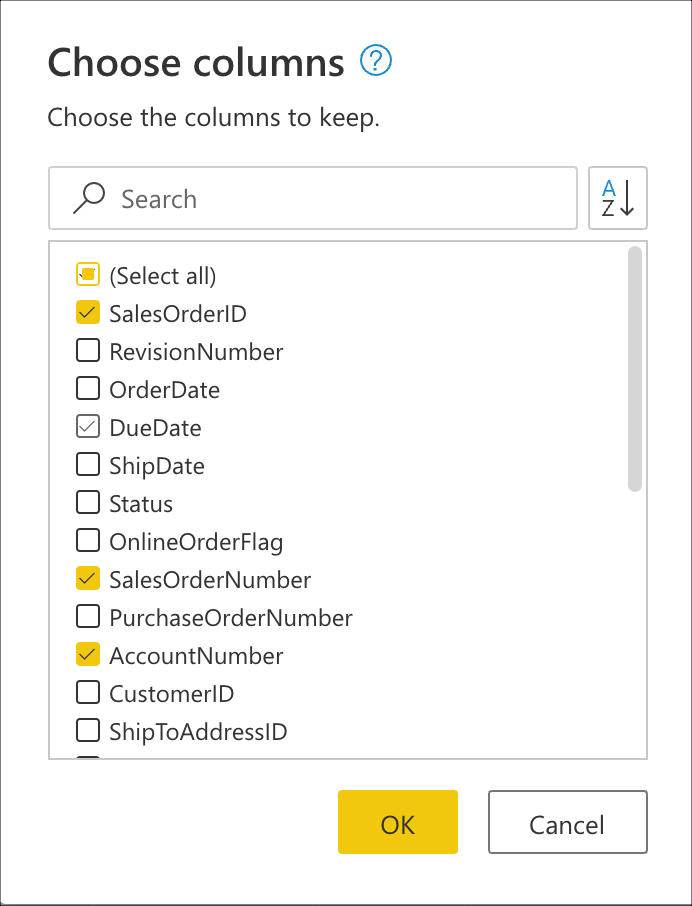
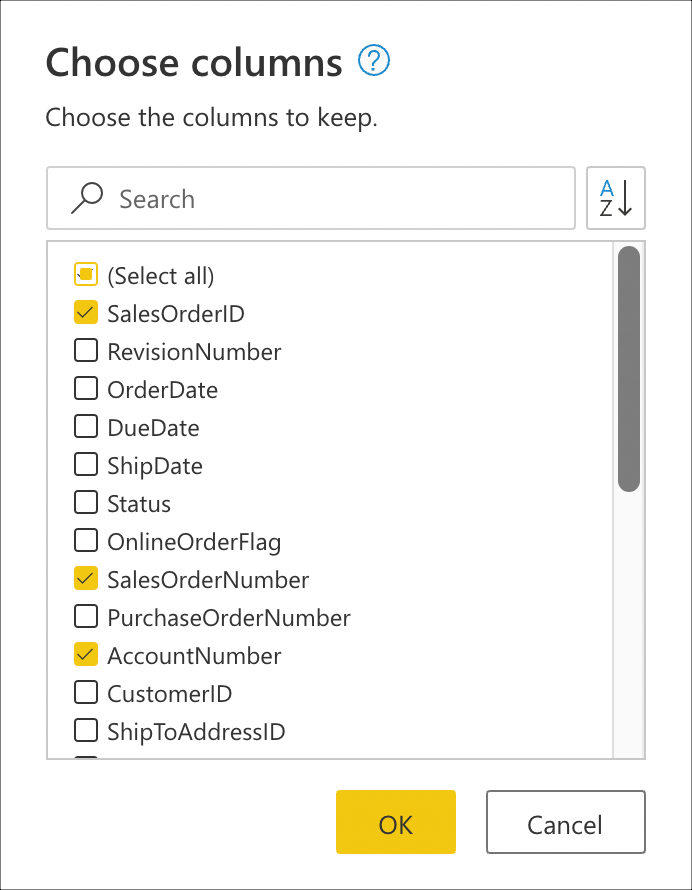
summary

diff --git a/powerquery-docs/query-folding-basics.md b/powerquery-docs/query-folding-basics.md
@@ -132,10 +132,35 @@ This article will showcase three ways to achieve the same output with different 
 
 #### Full query folding
 
-* Order descending by timestamp or ID
-* Keep top 20 rows
-* Keep columns
-* Simple transform
+After connecting to your database and navigating to the **SalesOrderHeader** table, you start by selecting the columns that you want to keep from your table. You select the **Choose columns** transform found inside the *Manage columns* group from the Home tab which will help you to explicitly select the columns that you want to keep from your table and remove the rest.
+
+![Selecting the choose columns transform found inside the Manage columns group from the Home tab](media/query-folding-basics/choose-columns-ui.png)
+
+Inside the **Choose columns** dialog, you select the columns *SalesOrderID*, *SalesOrderNumber*, and *AccountNumber* and click the OK button.
+
+![Selecting the columns SalesOrderID, SalesOrderNumber, and AccountNumber inside the Choose columns dialog](media/query-folding-basics/choose-columns-dialog.png)
+
+You know create a logic that will sort the table to have the last orders at the top. You select the *SalesOrderID* column, which is the primary key and incremental sequence or index of the table, and sort the table only using this in descending order right from the auto-filter menu inside the data preview view for the column.
+
+![](descending)
+
+Next, you select the table contextual menu from inside the data preview view and choose the *Keep top rows* transform.
+
+![](keep top rows)
+
+Inside the *Keep top rows* dialog, you enter the value twenty and then click the OK button.
+
+![](keep top rows dialog)
+
+This yields exactly the output that you were tasked with. When checking the applied steps pane, you can notice that the step folding indicators are showing that the transforms that you added, choose columns (named as Removed other columns), sorted rows and Kept top rows, are marked as steps that will be evaluated at the data source.
+
+![](media/query-folding-basics/full-folding-steps.png)
+
+You can right click the last step of your query, the one named *Kept top rows*, and select the option that reads **Query plan**. The goal of the Query plan is to showcase which transforms will be evaluated by the Power Query engine and which transforms could be offloaded to the data source. You can learn more about the **Query plan feature** from the [official documentation article](https://docs.microsoft.com/power-query/query-plan)
+
+![](media/query-folding-basics/full-folding-query-plan.png)
+
+///need to explain what this means and why it's good to have compact query plans
 
 #### Partial query folding
 
@@ -172,7 +197,7 @@ This yields exactly the output that you were tasked with. However, checking the 
 
 ![Applied steps pane for the query with the step folding indicators showcasing that the Kept bottom rows and the Removed other columns steps are marked as steps that will be evaluated outside the data source](media/query-folding-basics/no-folding-steps.png)
 
-You can right click the last step of your query, the one named *Kept bottom rows*, and select the option that reads **Query plan**. The goal of the Query plan is to showcase which transforms will be evaluated by the Power Query engine and which transforms could be offloaded to the data source. You can learn more about the **Query plan feature** from the [official documentation article](https://docs.microsoft.com/power-query/query-plan).
+You can right click the last step of your query, the one named *Kept bottom rows*, and select the option that reads **Query plan**.
 
 ![Query plan for the query created showing multiple nodes, two of which are within a rectangle and these two nodes represent the Kept bottom rows and Remove other columns transforms](media/query-folding-basics/no-folding-query-plan.png)
 
@@ -186,7 +211,7 @@ Here's a section to compare all 3 possible outcomes.
 
 * Follow the best practices when creating a new query as stated in [Best practices in Power Query](best-practices.md).
 * Use the step folding indicators to check which steps are preventing your query from folding and re-order them if necessary to increase folding.
-* Use the query plan to determine which transforms are happening at the Power Query engine for that particular step and consider re-arranging your query to check the updated query plan. For data sources that support folding, any nodes in the query plan other than Value.NativeQuery and datas ource access nodes represent transforms that didn’t fold.
+* Use the query plan to determine which transforms are happening at the Power Query engine for that particular step and consider re-arranging your query to check the updated query plan. For data sources that support folding, any nodes in the query plan other than Value.NativeQuery and data source access nodes represent transforms that didn’t fold.
 * Check the **View Native Query** option is always recommended to make sure that your query can be folded back to the data source. If your step disables this option, you know that you've created a step that stops query folding. 
 * Use the query diagnostics tool to your advantage and to better understand the requests being sent to your data source when query folding capabilities are available for the connector.
 * When combining data sourced from the use of multiple connectors, Power Query tries to push as much work as possible to both of the data sources while complying with the privacy levels defined for each data source. 
